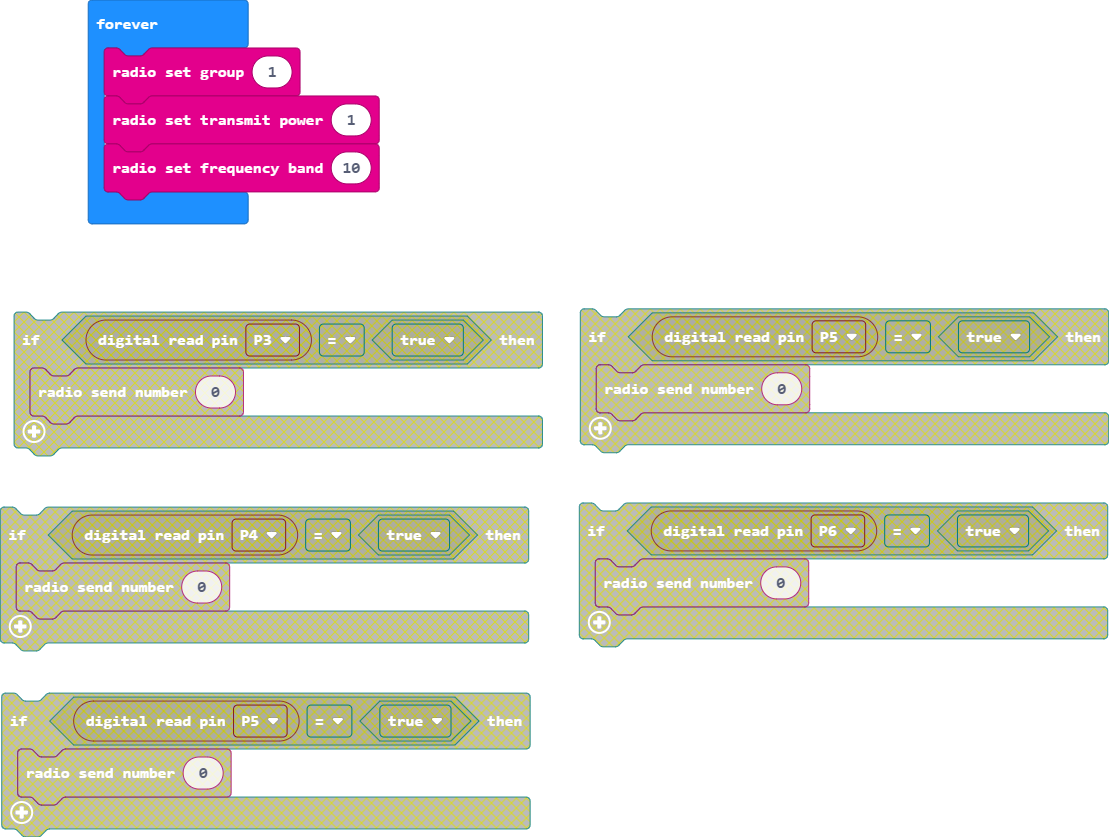
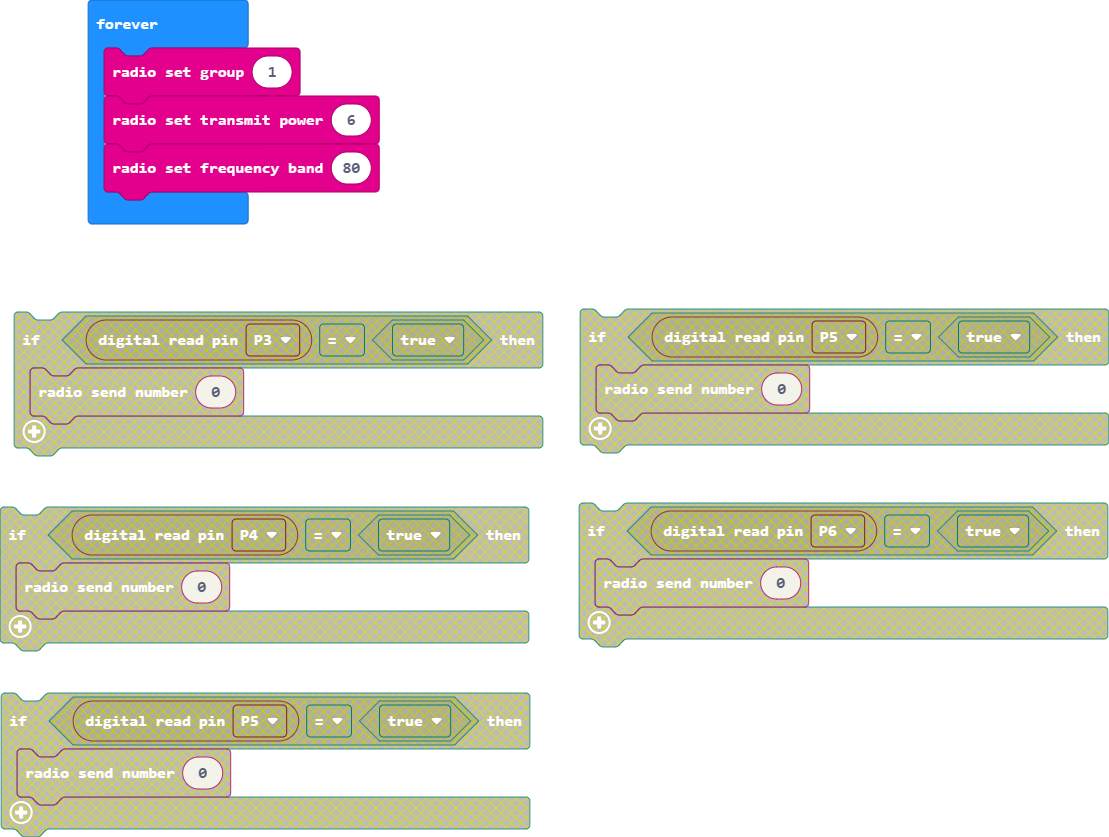
Update main.blocks, main.ts

diff --git a/main.ts b/main.ts
@@ -1,5 +1,5 @@
 basic.forever(function () {
     radio.setGroup(1)
-    radio.setTransmitPower(1)
-    radio.setFrequencyBand(10)
+    radio.setTransmitPower(6)
+    radio.setFrequencyBand(80)
 })
